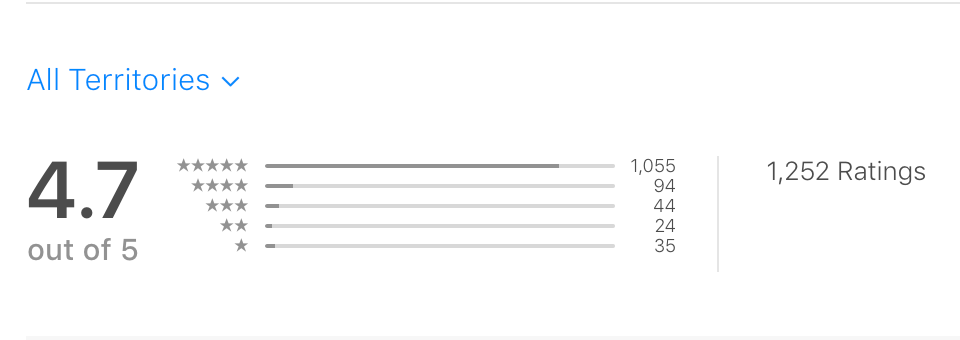
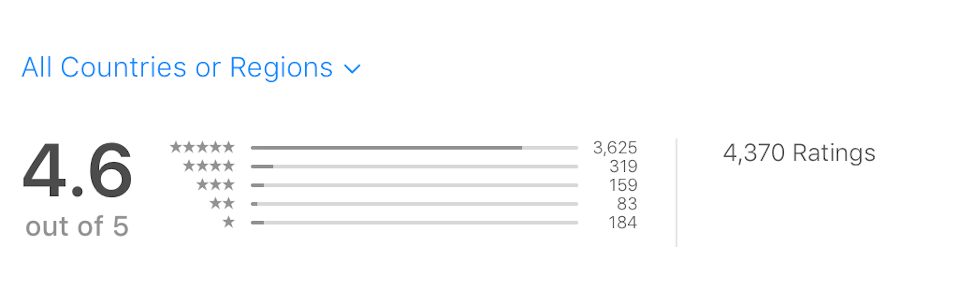
update

diff --git a/index.md b/index.md
@@ -7,11 +7,11 @@ We have specialised in internet security and scalable cloud architecture since 2
 ## Our Latest Startup
 Our latest start-up [Tegant VPN](https://tegant.com) has been the signature of our success. We have poured much of our finest coding abilities into our own SaaS and offer the best possible VPN solutions to our customers.
 
-Below, you will find a chart of how our user base has been growing rapidly since January 2019. 
+Below, you will find a chart of how our user base has been growing rapidly since January 2019 until June 2020. 
 
 <img src="tegant_user_growth.png" alt="Tegant User Growth Chart" style="display: block; margin: 0 auto;">
 
-Tegant VPN enjoys more than 1250 reviews with an average of 4.7 out of 5 stars in the App Store.
+Tegant VPN enjoys more than 3,625 five-star reviews in the App Store.
 
 <img src="tegant_reviews.png" alt="Tegant Reviews" style="display: block; margin: 0 auto;">
 
